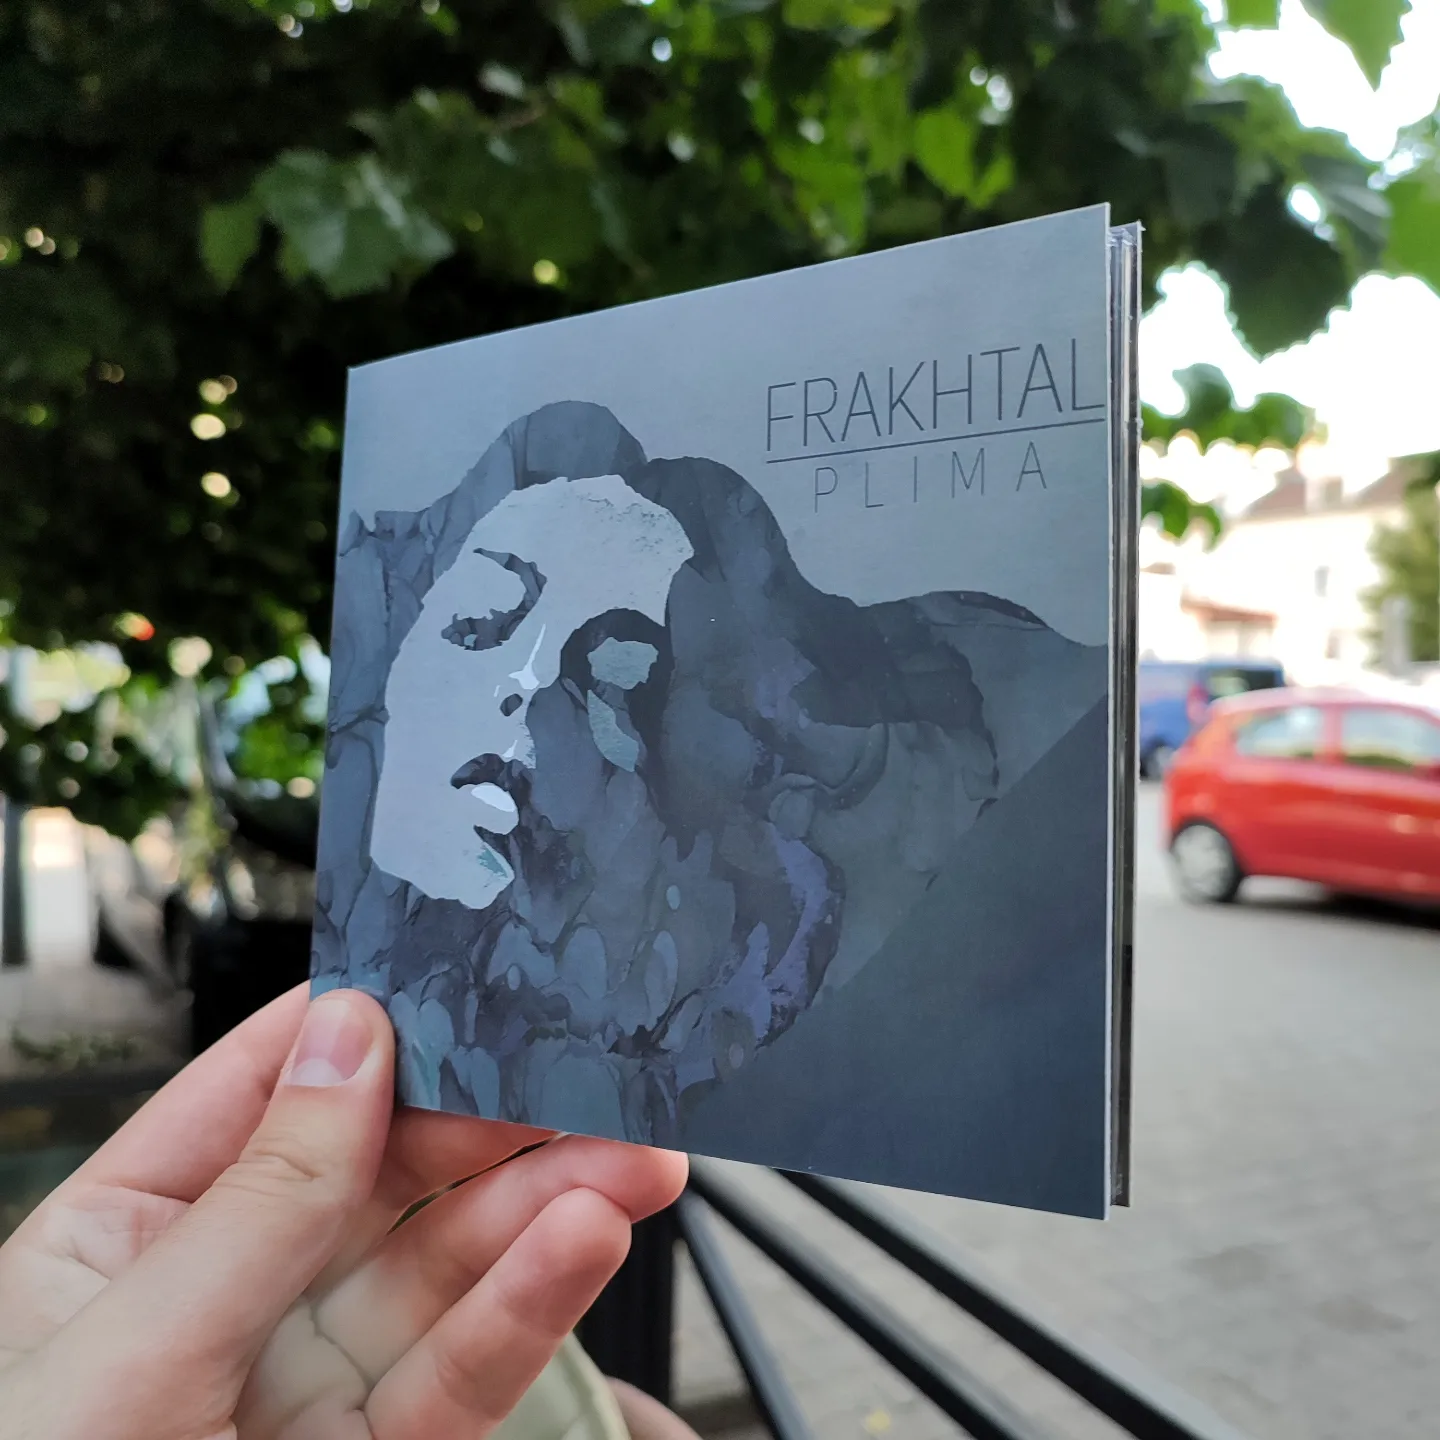
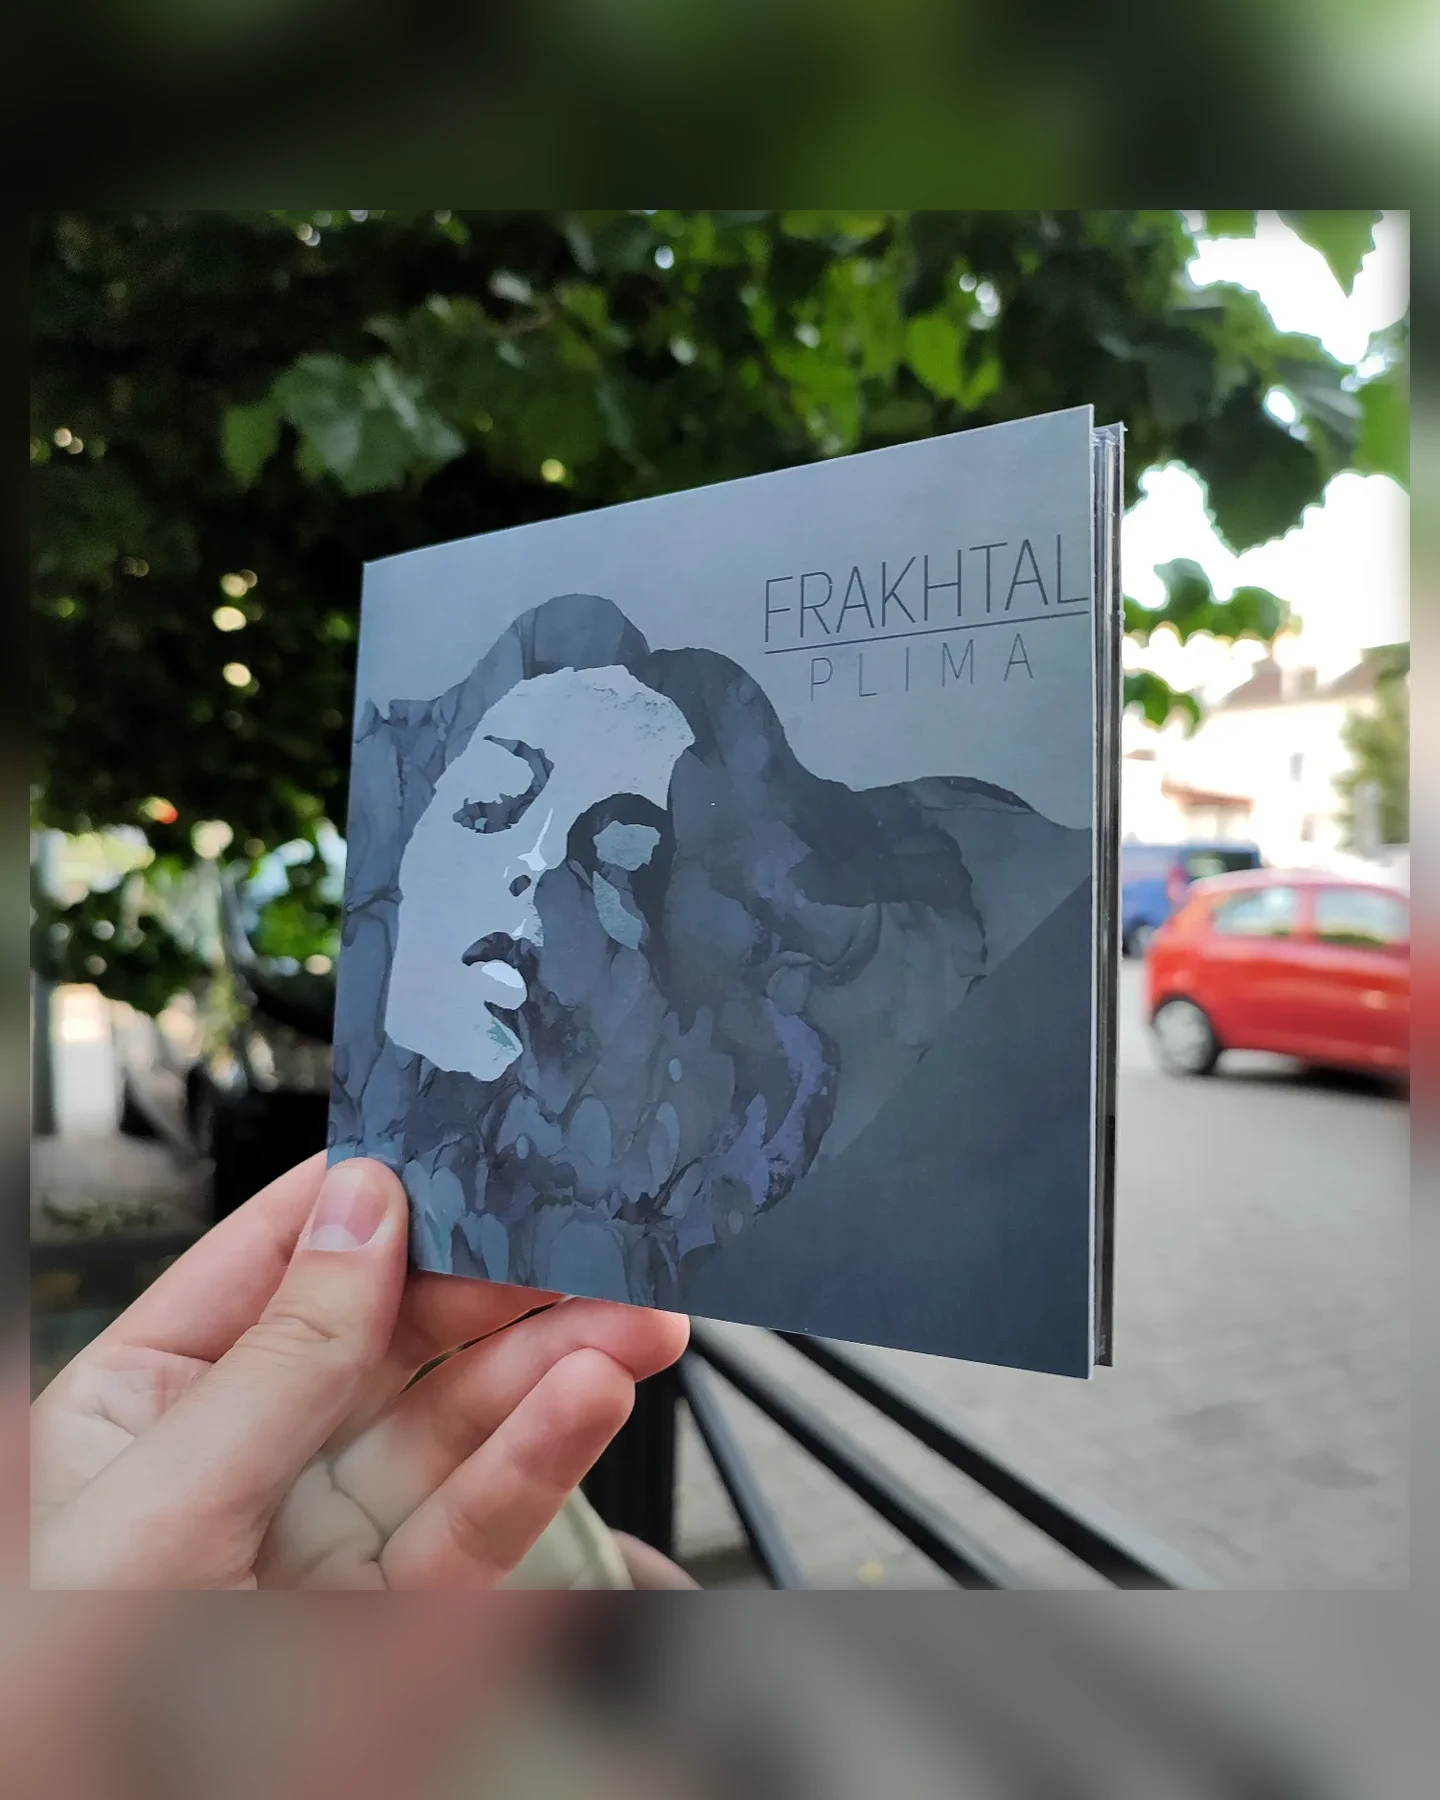
feat(distro): normalize verified CD photography
Why
Verified product photos used inconsistent aspect ratios, exposure, and framing in 4:5 Store surfaces.

What
Normalize the remaining accepted CD photos to source-preserving 1440x1800 sRGB assets and record each deterministic treatment in the evidence ledger.

diff --git a/openspec/changes/enrich-distro-product-media-and-copy/tasks.md b/openspec/changes/enrich-distro-product-media-and-copy/tasks.md
@@ -31,6 +31,6 @@
 ## 6. Normalize Verified CD Photography
 
 - [x] 6.1 Extend the change-local ledger validator to hash every referenced image and reject byte-identical photos stored under different filenames; cover the failure in `--self-test` without changing the CLI, TSV columns, or dependencies.
-- [ ] 6.2 Produce distinct source-derived Anima Triste title crops and split the Sun of Nothing wide photograph into front primary and back gallery assets; update alt text, evidence, and processing notes while preserving official source and rights records.
-- [ ] 6.3 Normalize all accepted verified-CD primary and gallery photos to 1440x1800, 4:5, sRGB with authentic scenes and protected products unchanged; preserve filenames/formats where practical and keep working files outside the repository.
+- [x] 6.2 Produce distinct source-derived Anima Triste title crops and split the Sun of Nothing wide photograph into front primary and back gallery assets; update alt text, evidence, and processing notes while preserving official source and rights records.
+- [x] 6.3 Normalize all accepted verified-CD primary and gallery photos to 1440x1800, 4:5, sRGB with authentic scenes and protected products unchanged; preserve filenames/formats where practical and keep working files outside the repository.
 - [ ] 6.4 Generate before/after contact sheets, inspect every final asset at 100%, and verify Store cards and details at desktop and 390 pixels through Browser Use.
